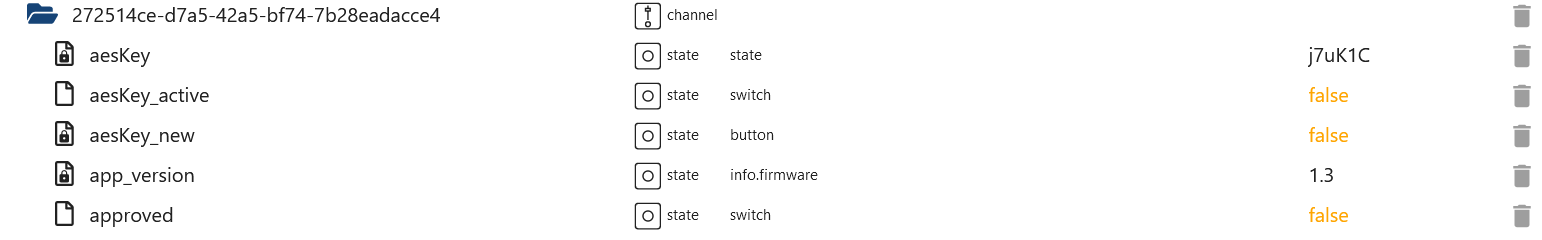
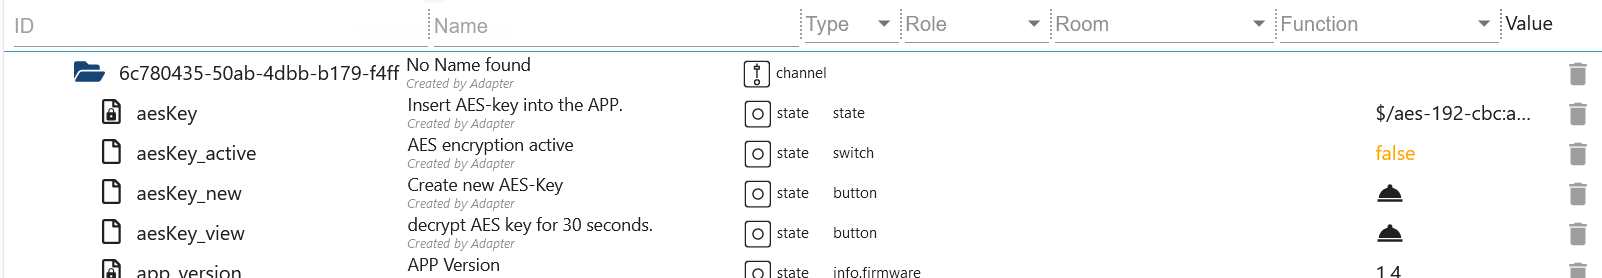
Encrypt sensitive data

diff --git a/build/login/loginmanager.js b/build/login/loginmanager.js
@@ -34,6 +34,7 @@ var crypto = __toESM(require("crypto"));
 class LoginManager {
   constructor(adapter) {
     this.approveLogins = false;
+    this.aesViewTimeout = {};
     this.adapter = adapter;
     this.adapter.listener.on(import_listener.Events.StateChange, this.onStateChange.bind(this));
     this.pendingClients = [];
@@ -78,6 +79,9 @@ class LoginManager {
             }
           }
           this.adapter.setStateAsync(event.objectID, { ack: true });
+        } else if (splited[4] == "aesKey_view") {
+          this.viewAesKey(deviceID);
+          this.adapter.setStateAsync(event.objectID, false, true);
         } else if (splited[4] == "aesKey_new") {
           const cl = this.pendingClients.find((e) => e.id == deviceID);
           if (cl) {
@@ -116,6 +120,29 @@ class LoginManager {
       }
     }
   }
+  async viewAesKey(deviceID) {
+    if (!this.aesViewTimeout[deviceID]) {
+      const state = await this.adapter.getStateAsync(`devices.${deviceID}.aesKey`);
+      if (state != null && state.val != null) {
+        if (state.val.toString().length > 6) {
+          const dec_shaAes = this.adapter.decrypt(state.val.toString());
+          await this.adapter.setStateAsync(`devices.${deviceID}.aesKey`, dec_shaAes, true);
+        }
+      } else {
+        return;
+      }
+      this.aesViewTimeout[deviceID] = this.adapter.setTimeout(async () => {
+        const state2 = await this.adapter.getStateAsync(`devices.${deviceID}.aesKey`);
+        if (state2 != null && state2.val != null) {
+          if (state2.val.toString().length === 6) {
+            const shaAes = this.adapter.encrypt(state2.val.toString());
+            await this.adapter.setStateAsync(`devices.${deviceID}.aesKey`, shaAes, true);
+          }
+        }
+        this.aesViewTimeout[deviceID] = void 0;
+      }, 1e3 * 60);
+    }
+  }
   async setAesNewAndSentInfo(deviceID, cl) {
     const random_key = this.genRandomString(6, true);
     await this.adapter.setStateAsync(`devices.${deviceID}.aesKey`, random_key, true);
@@ -147,7 +174,8 @@ class LoginManager {
     } else {
       cl.setAESKey("");
     }
-    await this.adapter.setStateAsync("devices." + deviceID + ".key", keys[1], true);
+    const shaKey = keys[1] != null ? this.adapter.encrypt(keys[1]) : null;
+    await this.adapter.setStateAsync("devices." + deviceID + ".key", shaKey, true);
     for (const current of this.pendingClients) {
       if (current.id == cl.id) {
         current.sendMSG(new import_datapacks.LoginKeyPacket(keys[0]).toJSON(), false);
@@ -157,6 +185,12 @@ class LoginManager {
   async stop() {
     this.approveLoginsTimeout && this.adapter.clearTimeout(this.approveLoginsTimeout);
     this.approveLoginsTimeout = void 0;
+    if (this.aesViewTimeout && Object.keys(this.aesViewTimeout).length > 0) {
+      for (const cl in this.aesViewTimeout) {
+        this.aesViewTimeout[cl] && this.adapter.clearTimeout(this.aesViewTimeout[cl]);
+        this.aesViewTimeout[cl] = void 0;
+      }
+    }
     return false;
   }
   async onWrongAesKey(client) {
@@ -227,6 +261,9 @@ class LoginManager {
     if (loginRequestData.key == null) {
       apr = false;
     }
+    if (keyState != null && keyState.val != null) {
+      keyState.val = this.adapter.decrypt(keyState.val.toString());
+    }
     if (keyState != null && keyState.val != null && loginRequestData.key && !await bcrypt.compare(loginRequestData.key, keyState.val.toString())) {
       this.adapter.log.debug(
         "Login declined for client: " + client.toString() + " (" + loginRequestData.deviceName + "): wrong key" + !await bcrypt.compare(loginRequestData.key, keyState.val.toString())
@@ -241,6 +278,22 @@ class LoginManager {
     return apr;
   }
   async createObjects(client, deviceIDRep, deviceName, key, version) {
+    await this.adapter.setObjectNotExistsAsync(`devices.${deviceIDRep}`, {
+      type: "channel",
+      common: {
+        name: deviceName,
+        desc: "Created by Adapter"
+      },
+      native: {}
+    });
+    await this.adapter.setObjectAsync(`devices.${deviceIDRep}`, {
+      type: "channel",
+      common: {
+        name: deviceName,
+        desc: "Created by Adapter"
+      },
+      native: {}
+    });
     await this.adapter.setObjectNotExistsAsync(`devices.${deviceIDRep}.connected`, {
       type: "state",
       common: {
@@ -292,14 +345,6 @@ class LoginManager {
       native: {}
     });
     await this.adapter.setStateAsync(`devices.${deviceIDRep}.app_version`, version, true);
-    await this.adapter.setObjectAsync(`devices.${deviceIDRep}`, {
-      type: "channel",
-      common: {
-        name: deviceName,
-        desc: "Created by Adapter"
-      },
-      native: {}
-    });
     await this.adapter.setObjectAsync(`devices.${deviceIDRep}.name`, {
       type: "state",
       common: {
@@ -478,6 +523,32 @@ class LoginManager {
       native: {}
     });
     await this.adapter.subscribeStatesAsync(`devices.${deviceIDRep}.sendNotification`);
+    await this.adapter.setObjectNotExistsAsync(`devices.${deviceIDRep}.aesKey_view`, {
+      type: "state",
+      common: {
+        name: {
+          "en": "decrypt AES key for 30 seconds.",
+          "de": "AES Schl\xFCssel f\xFCr 30 Sekunden entschl\xFCsseln.",
+          "ru": "\u0440\u0430\u0441\u0448\u0438\u0444\u0440\u043E\u0432\u0430\u0442\u044C \u043A\u043B\u044E\u0447 AES \u0432 \u0442\u0435\u0447\u0435\u043D\u0438\u0435 30 \u0441\u0435\u043A\u0443\u043D\u0434.",
+          "pt": "descriptografar AES chave por 30 segundos.",
+          "nl": "decodeer AES sleutel gedurende 30 seconden.",
+          "fr": "d\xE9chiffrer la cl\xE9 AES pendant 30 secondes.",
+          "it": "decifrare la chiave AES per 30 secondi.",
+          "es": "descifrar la tecla AES durante 30 segundos.",
+          "pl": "odszyfrowa\u0107 klucz AES przez 30 sekund.",
+          "uk": "\u0440\u043E\u0437\u0448\u0438\u0444\u0440\u0443\u0432\u0430\u0442\u0438 \u043A\u043B\u044E\u0447 AES \u043D\u0430 30 \u0441\u0435\u043A\u0443\u043D\u0434.",
+          "zh-cn": "\u89E3\u5BC6AES\u5BC6\u94A530\u79D2."
+        },
+        type: "boolean",
+        role: "button",
+        desc: "Created by Adapter",
+        def: false,
+        read: true,
+        write: true
+      },
+      native: {}
+    });
+    await this.adapter.subscribeStatesAsync(`devices.${deviceIDRep}.aesKey_view`);
     await this.adapter.setObjectNotExistsAsync(`devices.${deviceIDRep}.aesKey`, {
       type: "state",
       common: {

diff --git a/src/login/loginmanager.ts b/src/login/loginmanager.ts
@@ -16,6 +16,7 @@ export class LoginManager {
     pendingClients: Client[];
     approveLogins: boolean = false;
     approveLoginsTimeout: any;
+    aesViewTimeout: { [deviceID: string]: any } = {};
     constructor(adapter: SamartHomeHandyBis) {
         this.adapter = adapter;
         this.adapter.listener.on(Events.StateChange, this.onStateChange.bind(this));
@@ -64,6 +65,9 @@ export class LoginManager {
                         }
                     }
                     this.adapter.setStateAsync(event.objectID, {ack: true});
+                } else if (splited[4] == "aesKey_view") {
+                    this.viewAesKey(deviceID);
+                    this.adapter.setStateAsync(event.objectID, false, true);
                 } else if (splited[4] == "aesKey_new") {
                     const cl = this.pendingClients.find((e) => e.id == deviceID);
                     if (cl) {
@@ -103,6 +107,30 @@ export class LoginManager {
         }
     }
 
+    private async viewAesKey(deviceID: string): Promise<void> {
+        if (!this.aesViewTimeout[deviceID]) {
+            const state = await this.adapter.getStateAsync(`devices.${deviceID}.aesKey`);
+            if (state != null && state.val != null) {
+                if (state.val.toString().length > 6) {
+                    const dec_shaAes = this.adapter.decrypt(state.val.toString());
+                    await this.adapter.setStateAsync(`devices.${deviceID}.aesKey`, dec_shaAes, true);
+                }
+            } else {
+                return;
+            }
+            this.aesViewTimeout[deviceID] = this.adapter.setTimeout( async () => {
+                const state = await this.adapter.getStateAsync(`devices.${deviceID}.aesKey`);
+                if (state != null && state.val != null) {
+                    if (state.val.toString().length === 6) {
+                        const shaAes = this.adapter.encrypt(state.val.toString());
+                        await this.adapter.setStateAsync(`devices.${deviceID}.aesKey`, shaAes, true);
+                    }
+                }
+                this.aesViewTimeout[deviceID] = undefined;
+            }, 1000 * 60);
+        }
+    }
+
     private async setAesNewAndSentInfo(deviceID: string, cl: Client): Promise<void> {
         const random_key = this.genRandomString(6, true);
         await this.adapter.setStateAsync(`devices.${deviceID}.aesKey`, random_key, true);
@@ -136,7 +164,8 @@ export class LoginManager {
         } else {
             cl.setAESKey("");
         }
-        await this.adapter.setStateAsync("devices." + deviceID + ".key", keys[1], true);
+        const shaKey = keys[1] != null ? this.adapter.encrypt(keys[1]) : null;
+        await this.adapter.setStateAsync("devices." + deviceID + ".key", shaKey, true);
         for (const current of this.pendingClients) {
             if (current.id == cl.id) {
                 current.sendMSG(new LoginKeyPacket(keys[0]).toJSON(), false);
@@ -147,6 +176,12 @@ export class LoginManager {
     public async stop(): Promise<boolean> {
         this.approveLoginsTimeout && this.adapter.clearTimeout(this.approveLoginsTimeout);
         this.approveLoginsTimeout = undefined;
+        if (this.aesViewTimeout && Object.keys(this.aesViewTimeout).length > 0) {
+            for (const cl in this.aesViewTimeout) {
+                this.aesViewTimeout[cl] && this.adapter.clearTimeout(this.aesViewTimeout[cl]);
+                this.aesViewTimeout[cl] = undefined;
+            }
+        }
         return false;
     }
 
@@ -236,6 +271,12 @@ export class LoginManager {
         }
         if (loginRequestData.key == null) {
             apr = false;
+        }
+        if (
+            keyState != null &&
+            keyState.val != null
+        ) {
+            keyState.val = this.adapter.decrypt(keyState.val.toString());
         }
         if (
             keyState != null &&
@@ -530,6 +571,32 @@ export class LoginManager {
             native: {},
         });
         await this.adapter.subscribeStatesAsync(`devices.${deviceIDRep}.sendNotification`);
+        await this.adapter.setObjectNotExistsAsync(`devices.${deviceIDRep}.aesKey_view`, {
+            type: "state",
+            common: {
+                name: {
+                    "en": "decrypt AES key for 30 seconds.",
+                    "de": "AES Schlüssel für 30 Sekunden entschlüsseln.",
+                    "ru": "расшифровать ключ AES в течение 30 секунд.",
+                    "pt": "descriptografar AES chave por 30 segundos.",
+                    "nl": "decodeer AES sleutel gedurende 30 seconden.",
+                    "fr": "déchiffrer la clé AES pendant 30 secondes.",
+                    "it": "decifrare la chiave AES per 30 secondi.",
+                    "es": "descifrar la tecla AES durante 30 segundos.",
+                    "pl": "odszyfrować klucz AES przez 30 sekund.",
+                    "uk": "розшифрувати ключ AES на 30 секунд.",
+                    "zh-cn": "解密AES密钥30秒."
+                },
+                type: "boolean",
+                role: "button",
+                desc: "Created by Adapter",
+                def: false,
+                read: true,
+                write: true,
+            },
+            native: {},
+        });
+        await this.adapter.subscribeStatesAsync(`devices.${deviceIDRep}.aesKey_view`);
         await this.adapter.setObjectNotExistsAsync(`devices.${deviceIDRep}.aesKey`, {
             type: "state",
             common: {

diff --git a/src/main.ts b/src/main.ts
@@ -98,6 +98,7 @@ export class SamartHomeHandyBis extends utils.Adapter {
         });
         await this.setStateAsync("approveNextLogins", false, true);
         this.subscribeStates("approveNextLogins");
+        this.check_aes_key();
         this.loadConfigs();
         this.initServer();
     }
@@ -107,6 +108,22 @@ export class SamartHomeHandyBis extends utils.Adapter {
         this.certPath = this.config.certPath;
         this.useCer = this.config.useCert;
         this.keyPath = this.config.keyPath;
+    }
+
+    private async check_aes_key(): Promise<void> {
+        const channels = await this.getChannelsAsync();
+        for (const element of channels) {
+            const id = `${this.namespace}.devices`
+            if (element["_id"].startsWith(id)) {
+                const state = await this.getStateAsync(`${element["_id"]}.aesKey`);
+                if (state != null && state.val != null) {
+                    if (state.val.toString().length === 6) {
+                        const shaAes = this.encrypt(state.val.toString());
+                        await this.setStateAsync(`${element["_id"]}.aesKey`, shaAes, true);
+                    }
+                }
+            }
+        }
     }
 
     private initServer(): void {

diff --git a/build/main.js b/build/main.js
@@ -95,6 +95,7 @@ class SamartHomeHandyBis extends utils.Adapter {
     });
     await this.setStateAsync("approveNextLogins", false, true);
     this.subscribeStates("approveNextLogins");
+    this.check_aes_key();
     this.loadConfigs();
     this.initServer();
   }
@@ -103,6 +104,21 @@ class SamartHomeHandyBis extends utils.Adapter {
     this.certPath = this.config.certPath;
     this.useCer = this.config.useCert;
     this.keyPath = this.config.keyPath;
+  }
+  async check_aes_key() {
+    const channels = await this.getChannelsAsync();
+    for (const element of channels) {
+      const id = `${this.namespace}.devices`;
+      if (element["_id"].startsWith(id)) {
+        const state = await this.getStateAsync(`${element["_id"]}.aesKey`);
+        if (state != null && state.val != null) {
+          if (state.val.toString().length === 6) {
+            const shaAes = this.encrypt(state.val.toString());
+            await this.setStateAsync(`${element["_id"]}.aesKey`, shaAes, true);
+          }
+        }
+      }
+    }
   }
   initServer() {
     this.server = new import_server.Server(this.port, this.keyPath, this.certPath, this, this.useCer);

diff --git a/docs/en/aessecure.md b/docs/en/aessecure.md
@@ -7,12 +7,14 @@
 - `hiob.0.devices.xxx.aesKey` Enter this key into the APP
 - `hiob.0.devices.xxx.aesKey_active` Set to true for encryption
 - `hiob.0.devices.xxx.aesKey_new` Generate a new key and enter the APP
+- `hiob.0.devices.xxx.aesKey_view` Make AES key visible for 30 seconds (Image 2)
 
-![aes_iobroker.png](img/../../en/img/aes_iobroker.png)
+![aes_iobroker.png](img/aes_iobroker.png)
+![aes_iobroker.png](img/aes_iobroker_decrypt.png)
 
 # Step 2: APP Settings
 
 - Check the box “Use AES encryption”.
 - Enter AES key from ioBroker
 
-![aes_app.png](img/../../en/img/aes_app.png)
+![aes_app.png](img/aes_app.png)

diff --git a/docs/de/aessecure.md b/docs/de/aessecure.md
@@ -7,7 +7,10 @@
 -   `hiob.0.devices.xxx.aesKey` Diesen Schlüssel in die APP eintagen
 -   `hiob.0.devices.xxx.aesKey_active` Für die Verschlüsselung auf true setzen
 -   `hiob.0.devices.xxx.aesKey_new` Neuen Schlüssel generien und die die APP eintragen
-![aes_iobroker.png](img/../../en/img/aes_iobroker.png)
+-   `hiob.0.devices.xxx.aesKey_view` AES Schlüssel für 30 Sekunden sichtbar machen (Bild 2)
+
+![aes_iobroker.png](img/aes_iobroker.png)
+![aes_iobroker.png](img/aes_iobroker_decrypt.png)
 
 # Schritt 2: APP Einstellungen
 
